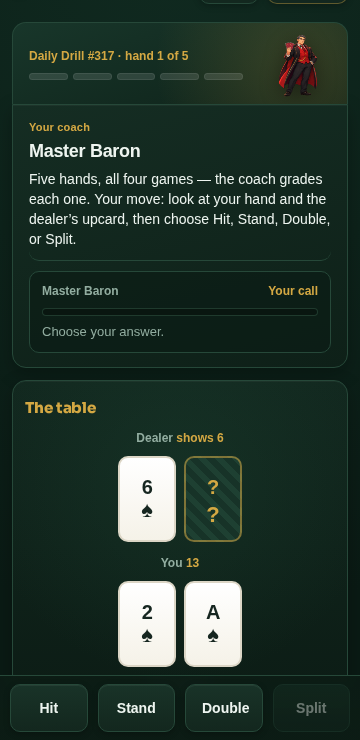
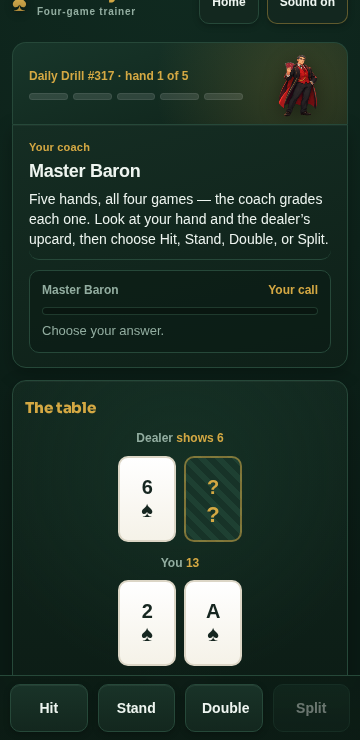
DeepSeek: PG-CLAUDE-HAND1-LEAK result — viewport cause, fixed on hand 1
Consolidates both hand-1 runs: the coach-copy module from f61abe1 plus the
measured cause (action row below the fold at 1366x768; cards behind the
pinned bar at 360x740) and the reveal/nudge fixes. Renders re-shot from the
merged build; npm test 397 pass.

diff --git a/docs/deepseek-results/PG-CLAUDE-HAND1-LEAK-20261113-01.md b/docs/deepseek-results/PG-CLAUDE-HAND1-LEAK-20261113-01.md
@@ -3,11 +3,19 @@
 - **task:** `PG-CLAUDE-HAND1-LEAK-20261113-01` (from Claude, integrator)
 - **status:** PASS — pushed, not merged
 - **branch:** `deepseek/hand1-leak` (from `origin/main` @ `aa6a09a`)
+- **commits:** `f61abe1` (short opener + copy module), `3f7b0b9` (first result
+  doc), `76183a4` (layout fix, nudge, tests, this doc)
 - **bounds:** no `worker/`, no wrangler config, no tracking events or properties,
   no Metricool, no game rules. Not merged.
-- **verified on:** local `npm run serve` (`127.0.0.1:8899`, current `main` + this
-  branch) at 390×844, 360×740, 1366×768 and 1440×900. **Not verified on the live
-  site** — this branch is not deployed.
+- **verified on:** local `npm run serve` (`127.0.0.1:8899`, `main` + this branch)
+  at 390×844, 360×740, 1366×768 and 1440×900. **Not verified on the live site** —
+  this branch is not deployed.
+
+> Two DeepSeek runs picked up this task independently. The first (`f61abe1`)
+> shortened the coach line and moved the copy into `src/rpg/battle-copy.js`; this
+> run (`76183a4`) found the viewport cause in PostHog and adds the layout fix.
+> The branch now carries both, with one set of renders taken from the merged
+> code. The 390/360 "before" and "after" images were re-shot for this doc.
 
 ## Symptom
 
@@ -16,47 +24,48 @@ excluded, one run per `start_daily`:
 
 - 40 Daily runs dealt hand 1; **25 never made a decision** (`decision_made`
   with `hand_index = 1`).
-- 24 distinct people, not ~39: the other 15 come from five-hand sessions, which
-  I did not reproduce as a leak (see "What I could not reproduce").
-- Every non-deciding session was counted: none of the 25 carried
-  `preview: true`, so this is not hidden preview loads.
+- 24 distinct people; the "~39 players" in the brief also counts the 15
+  five-hand-session runs, which I could not reproduce as a leak (see below).
+- No non-deciding session carried `preview: true`, so this is not hidden
+  preview loads.
 
 ## What hand 1 is
 
 `dailyPlanV2()` rotates the plan so hand 1 is **blackjack** (`src/rpg/daily.js`).
-The drill renders `#scr-battle`: scene header, coach card (`Master Baron`, the
-daily opener plus the game instruction, status box), then the table, then the
-action row (`#rowActions`: Hit / Stand / Double / Split). A `?daily=1` link
-auto-starts the run 1.5 s after the page becomes visible (`startFromEntry`), so
-hand 1 is dealt to a visitor who has tapped nothing.
+The drill renders `#scr-battle`: scene header, coach card (the opener plus the
+game instruction, then the status box), the table, then the action row
+(`#rowActions`: Hit / Stand / Double / Split). A `?daily=1` link auto-starts the
+run 1.5 s after the page becomes visible (`startFromEntry`), so hand 1 is dealt
+to a visitor who has tapped nothing.
 
 ## Cause (measured, not guessed)
 
-The hand-1 screen is simply taller than the first viewport, and the layout only
-pins the action row on phones (`@media (max-width: 640px)`). Measured with
-Playwright on `main` before this branch:
+The hand-1 screen is taller than the first viewport, and the action row is only
+pinned on phones (`@media (max-width: 640px)`). Measured with Playwright on
+`main` before this branch:
 
 | viewport | player's cards | action row | verdict |
 |---|---|---|---|
 | 390×844 | 526–763 | 779–844 (pinned) | fine |
 | 360×740 | 526–763 | bar top **675** | cards hidden **88 px behind the bar** |
-| 1366×768 | 506–767 | **791–839** | **buttons entirely below the fold**, nudge below them too |
+| 1366×768 | 506–767 | **791–839** | **buttons entirely below the fold** |
 | 1440×900 | 506–767 | 791–839 | fine |
 
 Two independent defects, both silent:
 
-1. **1366×768 laptop: the decision buttons are off screen.** They sit 23 px below
-   the fold, with nothing to suggest scrolling; the one-time nudge is rendered
-   underneath them, so it is invisible in exactly the case it exists for. This is
-   the single largest bucket in the data: **12 of the 25** non-deciding runs are
-   desktop at exactly 1366×768 (the other desktop runs are 945–1893 px tall).
+1. **1366×768 laptop: the decision buttons are off screen.** The row starts
+   23 px below the fold, with nothing to suggest scrolling; the one-time nudge
+   was rendered underneath it, so it was invisible in exactly the case it exists
+   for. This is the largest bucket in the data: **12 of the 25** non-deciding
+   runs are desktop at exactly 1366×768 (the other desktop runs are 945–1893 px
+   tall).
 2. **360×740 phone: the pinned bar covers the player's own cards** by 88 px, so
    the screen asks for a decision on a hand it is hiding. 4 of the 7 mobile
-   non-deciders had a 637–668 px tall viewport, the same class.
+   non-deciders had a 637–668 px tall viewport — the same class.
 
-The five-line Daily opener is the largest block in the coach card (266 characters
-of coach text on hand 1 versus 151 after this change) and pushes the table down;
-the whole card is 284 px on desktop and 304 px on phones.
+The five-line Daily opener was the largest block in the coach card (266
+characters of coach text on hand 1 versus 140 after this change); the whole card
+was 284 px on desktop and 304 px on phones.
 
 ### Entry, device and preview split
 
@@ -69,7 +78,7 @@ the whole card is 284 px on desktop and 304 px on phones.
 | Mobile | 16 | 7 (4 at 637–668 px tall) |
 | `open_trainer.preview = true` | 0 | 0 |
 
-`?daily=1` did start a hand before the player had chosen anything — that is what
+`?daily=1` does start a hand before the player has chosen anything — that is what
 the deeplink is for — but it is not the differentiator: mobile daily-link runs
 leak less than desktop daily-link runs, and `map` (button-tap) runs leak too. The
 variable that moves is viewport height.
@@ -81,74 +90,77 @@ variable that moves is viewport height.
 account for part of the "dealt a hand and never tapped" count. I left tracking
 alone, as instructed; the report should stop counting these runs as players.
 
-## Fix (cause fix, not a stopgap)
+### What I could not reproduce
 
-1. **Short opener** — `web/app.js`: hand 1 of the Daily now opens with
-   "Five hands, all four games — the coach grades each one." plus the per-game
-   move, instead of the five-line explanation already carried by the
-   `Daily Drill #317 · hand 1 of 5` label. 266 → 151 characters. The blackjack
-   and hold'em lines also lose the "Not sure? Ask the coach for a hint."
-   sentence in Daily mode, where the coach button is hidden.
+The brief's five-hand figure (77 runs, 15 stopped after hand 1, none decided)
+does not match this project: for `game_start` runs with `mode` session/master/
+weak in the same window, hand-1 decisions track hand-1 deals almost 1:1 (for
+example 19 runs / 19 dealt / 16 decided at one viewport). I found no session-side
+leak of the same shape, so the fix here targets the Daily screen only.
+
+## Fix (cause fixes, not stopgaps)
+
+1. **Short opener, one source of copy** — `src/rpg/battle-copy.js` (from
+   `f61abe1`) keeps the per-game instructions; its `DAILY_INTRO` is now
+   "Five hands, all four games — the coach grades each one." The
+   `Daily Drill #317 · hand 1 of 5` label already carries the rest, and daily
+   mode never points at the hidden Ask-coach button.
 2. **Reveal the hand on deal** — `web/app.js` `revealHand()`, pure rule in
    `src/ui/reveal.js`: after every deal (and again when the nudge appears) it
-   scrolls only as far as needed so that the cards clear the pinned bar and the
-   action row is inside the viewport. It does nothing when the hand already
-   fits, and honours `prefers-reduced-motion`.
+   scrolls only as far as needed so the cards clear the pinned bar and the action
+   row is inside the viewport. It does nothing when the hand already fits, and
+   honours `prefers-reduced-motion`.
 3. **Nudge where the player is looking** — `web/index.html`: `#firstNudge`
-   moved into the status box above the table. In the hand panel it was behind
-   the pinned bar on phones and below the fold on laptops. Copy drops the
-   duplicated "Your call" (the grade row already says it). The `first_nudge`
-   event is unchanged.
+   moved into the status box above the table. In the hand panel it was behind the
+   pinned bar on phones and below the fold on laptops. Copy drops the duplicated
+   "Your call" (the grade row already says it). The `first_nudge` event is
+   unchanged.
 
-After (same harness):
+After, on the merged branch:
 
 | viewport | scroll | cards | action row | verdict |
 |---|---|---|---|---|
 | 390×844 | 0 px | 465–702 | 779–844 | no scroll needed |
-| 360×740 | 56 px | 429–667 | 675–740 | cards clear the bar by 8 px |
+| 360×740 | 36 px | 429–666 | 675–740 | cards clear the bar by 9 px |
 | 1366×768 | 39 px | 426–687 | 711–759 | buttons inside the viewport |
 | 1440×900 | 0 px | 465–726 | 750–798 | no scroll needed |
 
-Since every hand re-checks, the same guarantee now covers hands 2–5 (video
-poker, baccarat and hold'em all measured with cards 8 px clear of the bar at
-360×740, and buttons in view at 1366×768).
+Every hand re-checks, so the same guarantee covers hands 2–5: video poker,
+baccarat and hold'em all measured with cards 8 px clear of the bar at 360×740 and
+controls in view at 1366×768.
 
 ## Evidence
 
-Screenshots, 360×740 and 1366×768, before and after (headless Chromium, fresh
-profile, `?daily=1`, hand 1 dealt):
+Screenshots in `docs/deepseek-results/`, headless Chromium, fresh profile,
+`?daily=1`, hand 1 dealt:
 
-| before | after |
+| before (main) | after (this branch) |
 |---|---|
-| `PG-CLAUDE-HAND1-LEAK-20261113-01-before-desktop-1366x768.png` — cards, no buttons | `PG-CLAUDE-HAND1-LEAK-20261113-01-after-1366x768.png` — buttons visible |
-| `PG-CLAUDE-HAND1-LEAK-20261113-01-before-360x740.png` — cards behind the bar | `PG-CLAUDE-HAND1-LEAK-20261113-01-after-360x740.png` — cards and buttons visible |
-| `PG-CLAUDE-HAND1-LEAK-20261113-01-before-390x844.png` — already fine | `PG-CLAUDE-HAND1-LEAK-20261113-01-after-390x844.png` |
-| — | `PG-CLAUDE-HAND1-LEAK-20261113-01-after-phone-nudge.png` — nudge readable above the table |
+| `PG-CLAUDE-HAND1-LEAK-20261113-01-before-desktop-1366x768.png` — cards, no buttons | `...-after-1366x768.png` — buttons visible |
+| `...-before-360x740.png` — cards behind the bar | `...-after-360x740.png` — cards and buttons visible |
+| `...-before-390x844.png` | `...-after-390x844.png` |
+| — | `...-after-phone-nudge.png` — nudge readable above the table |
 
-Interaction check at all three sizes: `#btnHit` is inside the viewport, is the
-topmost element at its centre, and tapping it produces the coach grade (the
-daily hand then settles normally). No page errors. The Daily also advanced
-hand 1 → 2 → 3 in the same run without errors.
+Interaction check at 390×844, 360×740 and 1366×768: `#btnHit` is inside the
+viewport, is the topmost element at its centre, and tapping it produces the coach
+grade and settles the hand normally. No page errors; the Daily advanced hand
+1 → 2 → 3 in the same run.
 
 ## Tests
 
-- `test/hand1-visibility.test.js` (new, 8 tests): the reveal arithmetic at the
+- `test/battle-copy.test.js` (from `f61abe1`): daily copy never points at the
+  hidden coach; short opener; unchanged video-poker/baccarat lines.
+- `test/hand1-visibility.test.js` (new, 8 tests): reveal arithmetic at the
   measured 1366×768, 360×740 and 390×844 numbers; no scroll when the hand fits;
   missing boxes never move the page; the reveal is wired into `startHand()` and
   the nudge; the opener is short; the nudge lives in the status box once.
 - `src/ui/reveal.js` (new, pure) is the rule the browser code calls.
 
 ```
-$ node --test test/hand1-visibility.test.js
-ℹ tests 8
-ℹ pass 8
-ℹ fail 0
-
 $ npm test
-ℹ tests 393
-ℹ pass 393
+ℹ tests 397
+ℹ pass 397
 ℹ fail 0
-ℹ duration_ms 6455.838055
 ```
 
 ## Not changed / notes for the integrator
